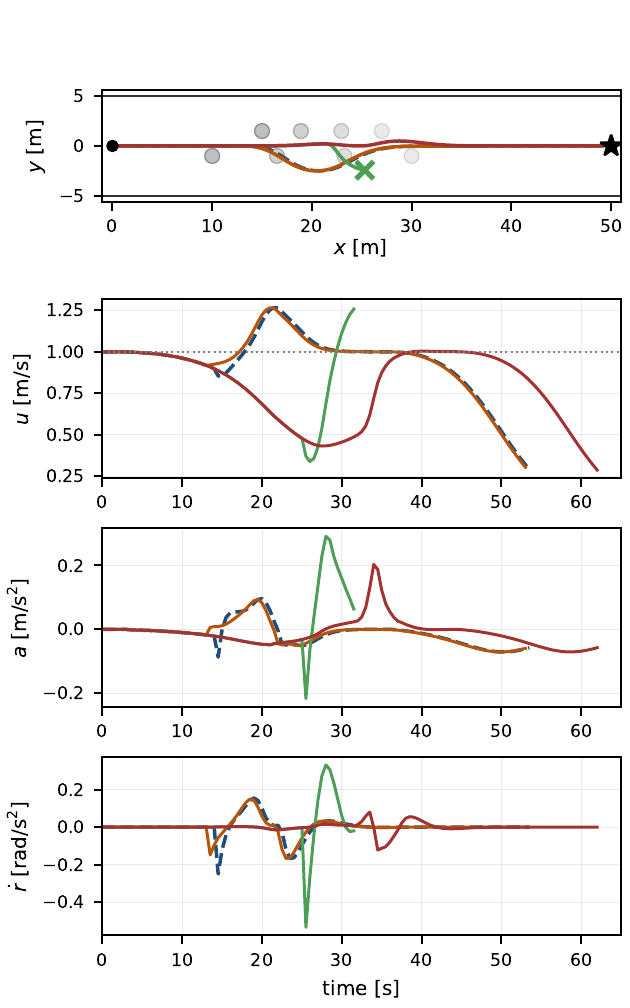
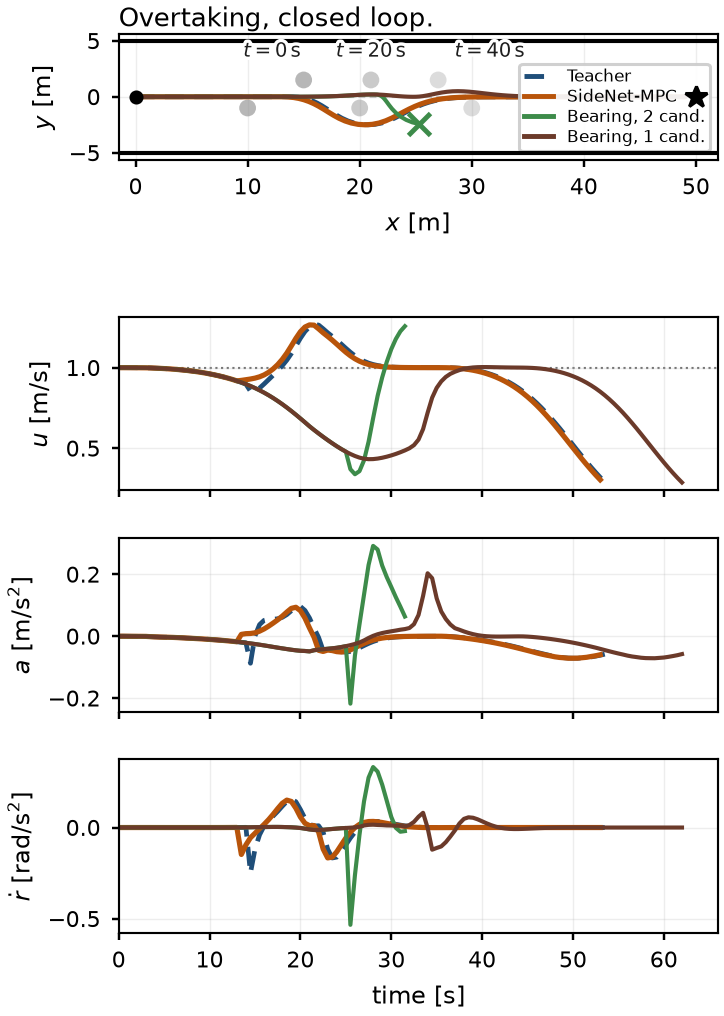
Align the project page with the revised manuscript.

diff --git a/index.html b/index.html
@@ -94,6 +94,8 @@ tbody tr.win{background:#eef5ee}
 tbody tr.win td{font-weight:600}
 td.l,th.l{text-align:left}
 .good{color:var(--good);font-weight:600}
+table.quality td,table.quality th{white-space:nowrap;font-size:14px}
+figure.narrow img{max-width:min(100%,720px)}
 
 footer{margin-top:52px;padding:24px 0 38px;border-top:1px solid var(--line);
  text-align:center;color:var(--faint);font-size:14px}
@@ -171,6 +173,26 @@ SideNet-MPC keeps only two: a GNN proposal and the previously executed decision.
 <hr class="sep">
 
 <section class="wide">
+<h2>Simulation environment</h2>
+<p class="lead">
+Teacher data and the randomized evaluations use the same 250&nbsp;m&nbsp;&times;&nbsp;40&nbsp;m corridor.
+Training uses the 100-obstacle mix only; denser scenes are out of distribution.
+</p>
+
+<figure>
+<img src="static/fig_simenv_a.png" alt="Full 250 m corridor with 30 static and 70 dynamic obstacles">
+<figcaption><b>Full course.</b> 250&nbsp;m&nbsp;&times;&nbsp;40&nbsp;m, 30 static (gray) and 70 dynamic (orange) obstacles. The vehicle starts at (0,0), aligned with +<i>x</i>, and tracks <i>y</i>&nbsp;=&nbsp;0 toward (250,0). Dashed circles mark the obstacle-free neighborhoods of the start and goal.</figcaption>
+</figure>
+
+<figure class="narrow">
+<img src="static/fig_simenv_b.png" alt="Start-region enlargement with dynamic-obstacle headings">
+<figcaption><b>Start region.</b> Enlargement of the boxed stretch. Arrows show the sampled constant-velocity headings of the dynamic obstacles.</figcaption>
+</figure>
+</section>
+
+<hr class="sep">
+
+<section class="wide">
 <h2>Closed-loop videos</h2>
 <p class="lead">
 Every controller in a clip sees the same traffic. Playback is accelerated.
@@ -238,13 +260,8 @@ The GNN carries that pairwise gap on its edges.
 </p>
 
 <figure>
-<img src="static/fig_gallery.png" alt="Coupling gallery: MLP is wrong in all twelve scenes, GNN matches the expert">
-<figcaption><b>Coupling gallery.</b> Adding a partner obstacle flips the expert side of the same lead obstacle. The per-obstacle MLP is unchanged — and wrong — in all twelve scenes; the GNN flips with the expert.</figcaption>
-</figure>
-
-<figure>
-<img src="static/fig_twin.png" alt="Twin-gates: GNN separates blocked and open gates; MLP cannot">
-<figcaption><b>Twin gates.</b> (a) With the lead obstacle’s own features held fixed, the per-obstacle net’s Δlogit is identically zero. SideNet-MPC separates a blocked gate from an open one. (b) Without the second candidate, the per-obstacle net stalls; SideNet-MPC finishes in 61 s.</figcaption>
+<img src="static/fig_gallery.png" alt="Coupling gallery: MLP is wrong in all four scenes, GNN matches the expert">
+<figcaption><b>Coupling gallery.</b> Adding a partner obstacle flips the expert side of the same lead obstacle. Four representative scenes span both flip directions and a range of pair gaps. The per-obstacle MLP is unchanged — and wrong — in all four; the GNN flips with the expert.</figcaption>
 </figure>
 </section>
 
@@ -257,8 +274,8 @@ The GNN carries that pairwise gap on its edges.
 </p>
 
 <figure>
-<img src="static/fig_density.png" alt="Success rate, ratio to expert, and control effort versus obstacle density">
-<figcaption><b>Success, expert ratio, and effort.</b> SideNet-MPC keeps 64–75% of the expert’s success with 2 solves instead of 16. The rule-based proposer collapses as density rises.</figcaption>
+<img src="static/fig_density.png" alt="Success rate relative to the expert and control effort versus obstacle density">
+<figcaption><b>Success relative to the expert, and effort.</b> (a) success rate relative to the expert, (b) control effort. Training used the 100-obstacle setting only. SideNet-MPC keeps 64–75% of expert success with 2 solves instead of 16; the rule-based proposer collapses out of distribution.</figcaption>
 </figure>
 
 <div class="tbl-scroll">
@@ -304,8 +321,61 @@ The GNN carries that pairwise gap on its edges.
 </tbody>
 </table>
 </div>
+
+<div class="tbl-scroll">
+<table class="quality">
+<caption>Quality over successful rollouts: cross-track error [m] / control effort <i>E<sub>u</sub></i> / input-rate effort <i>E</i><sub>&Delta;<i>u</i></sub>.</caption>
+<thead>
+<tr>
+<th class="l">Configuration</th>
+<th>100</th>
+<th>120</th>
+<th>130</th>
+<th>140</th>
+</tr>
+</thead>
+<tbody>
+<tr>
+<td class="l">Teacher (16 solves)</td>
+<td>1.73 / 1.47 / 1.97</td>
+<td>2.04 / 1.87 / 2.50</td>
+<td>2.37 / 2.18 / 3.01</td>
+<td>2.48 / 2.40 / 3.29</td>
+</tr>
+<tr>
+<td class="l">SideNet-MPC</td>
+<td>1.62 / 1.72 / 2.39</td>
+<td>1.84 / 2.09 / 2.99</td>
+<td>2.01 / 2.36 / 3.37</td>
+<td>2.01 / 2.51 / 3.62</td>
+</tr>
+<tr>
+<td class="l">Per-obstacle net</td>
+<td>1.60 / 1.68 / 2.26</td>
+<td>1.82 / 2.06 / 2.90</td>
+<td>1.97 / 2.36 / 3.34</td>
+<td>2.04 / 2.55 / 3.70</td>
+</tr>
+<tr>
+<td class="l">Capacity control</td>
+<td>1.57 / 1.74 / 2.39</td>
+<td>1.81 / 2.08 / 2.98</td>
+<td>1.96 / 2.44 / 3.54</td>
+<td>2.02 / 2.54 / 3.74</td>
+</tr>
+<tr>
+<td class="l">Bearing, 2 cand.</td>
+<td>2.16 / 2.52 / 3.63</td>
+<td>2.53 / 2.95 / 4.28</td>
+<td>2.63 / 3.18 / 4.62</td>
+<td>3.09 / 3.57 / 5.34</td>
+</tr>
+</tbody>
+</table>
+</div>
 <p class="lead" style="margin-top:8px">
-Per period on one core: 16 OCP solves in 300 ms versus 2 solves in 28.1 ms, including the network pass.
+On one core, 16 OCP solves take 300&nbsp;ms versus 2 solves in 28.1&nbsp;ms, including the network pass.
+The teacher’s 16-thread batch is 47.5&nbsp;ms, still 1.7&times; slower than SideNet-MPC on one core.
 </p>
 </section>
 

diff --git a/README.md b/README.md
@@ -6,4 +6,4 @@ Project page for a manuscript under review.
 
 Changyu Lee (Kongju National University), Byung-Kwan Lee (NVIDIA Research), and Kanghoon Yoon (KAIST).
 
-This repository hosts the static site only: paper figures and closed-loop videos. Please refer to the submitted manuscript for the method.
+This repository hosts the static site only: paper figures, tables, and closed-loop videos. Please refer to the submitted manuscript for the method.
